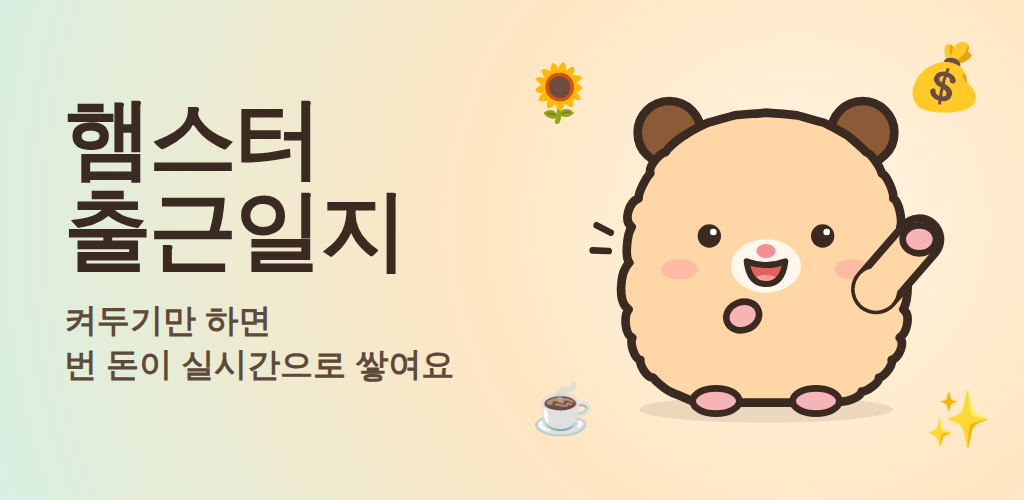
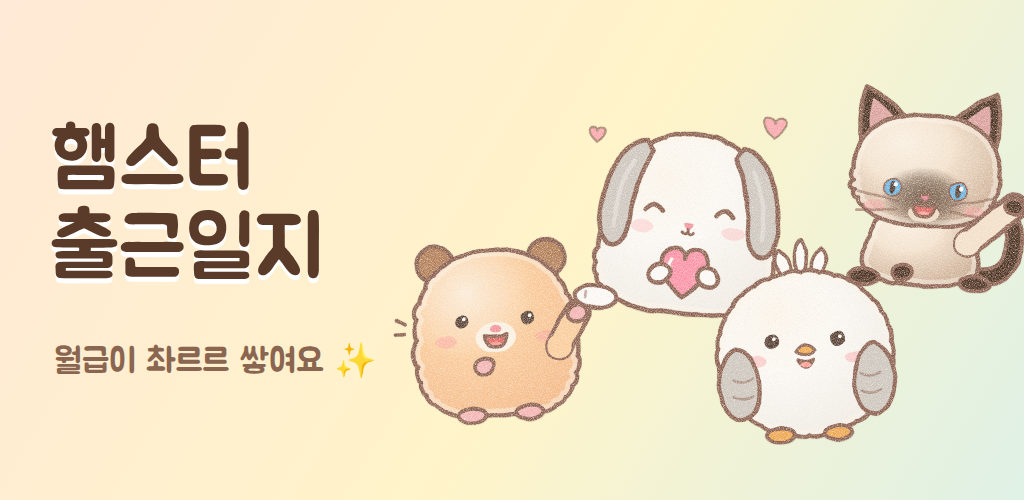
스토어 홍보 이미지 새로 제작: 문구·캐릭터 4종이 들어간 스크린샷 8장과 그래픽 이미지
Claude-Session: https://claude.ai/code/session_013ZkyNmJ4H36xCyz94C7hAs

diff --git a/src/dev/Gallery.tsx b/src/dev/Gallery.tsx
@@ -10,7 +10,7 @@ import { SEASONS } from '../domain/workItems';
 import { GACHA_EVENTS } from '../domain/gacha';
 import { RARE_BEHAVIORS } from '../domain/rare';
 
-const FRONT: FrontAction[] = ['idle', 'sniff', 'groom', 'nibble', 'yawn', 'sip', 'look', 'type', 'typeFast', 'wave', 'stuff', 'sneeze', 'doze', 'dizzy', 'dance', 'cheer', 'heart', 'shy', 'hug'];
+const FRONT: FrontAction[] = ['idle', 'sniff', 'groom', 'nibble', 'yawn', 'sip', 'look', 'type', 'typeFast', 'wave', 'stuff', 'sneeze', 'doze', 'dizzy', 'dance', 'cheer', 'heart', 'shy', 'hug', 'doom'];
 const SIDE: SideAction[] = ['stand', 'walk', 'run', 'sleep'];
 
 /** 개발용: `?gallery` 로 모든 자세를 한눈에 본다 */

diff --git a/store/listing-ko.md b/store/listing-ko.md
@@ -63,12 +63,14 @@ https://baebae6ae.github.io/chool_geun/privacy.html
 - 전송 중 암호화/삭제 요청: 해당 없음 (서버 없음)
 - ※ 광고(AdMob)를 붙이는 업데이트부터는 "기기 ID 수집, 광고 목적, 제3자 공유"로 바꿔야 함
 
-## 스크린샷 순서 제안
-1. 01-home — 오늘 번 돈과 햄스터
-2. 02-gacha — 직장인 이벤트
-3. 03-office — 사무실이 꾸며지는 모습
-4. 04-collection — 도감
-5. 05-records — 기록과 출근 도장
-6. 07-customize — 꾸미기
-7. 06-setup — 연봉만 넣으면 시작
-8. 08-clock-landscape — 탁상시계 모드
+## 스크린샷 순서 제안 (1080×1920, 홍보 문구가 들어간 이미지)
+1. 01-home — 월급이 촤르르 쌓여요
+2. 02-characters — 캐릭터 4종
+3. 03-events — 직장인 이벤트 50종
+4. 04-overtime — 야근하면 방이 썩어가요
+5. 05-office — 사무실이 하나씩 채워져요
+6. 06-customize — 사무용품 꾸미기
+7. 07-share-card — 날마다 다른 오늘의 카드
+8. 08-clock-landscape — 눕히면 탁상시계
+
+그래픽 이미지(1024×500): store/feature-graphic-1024x500.png, 앱 아이콘(512): store/icon-512.png
